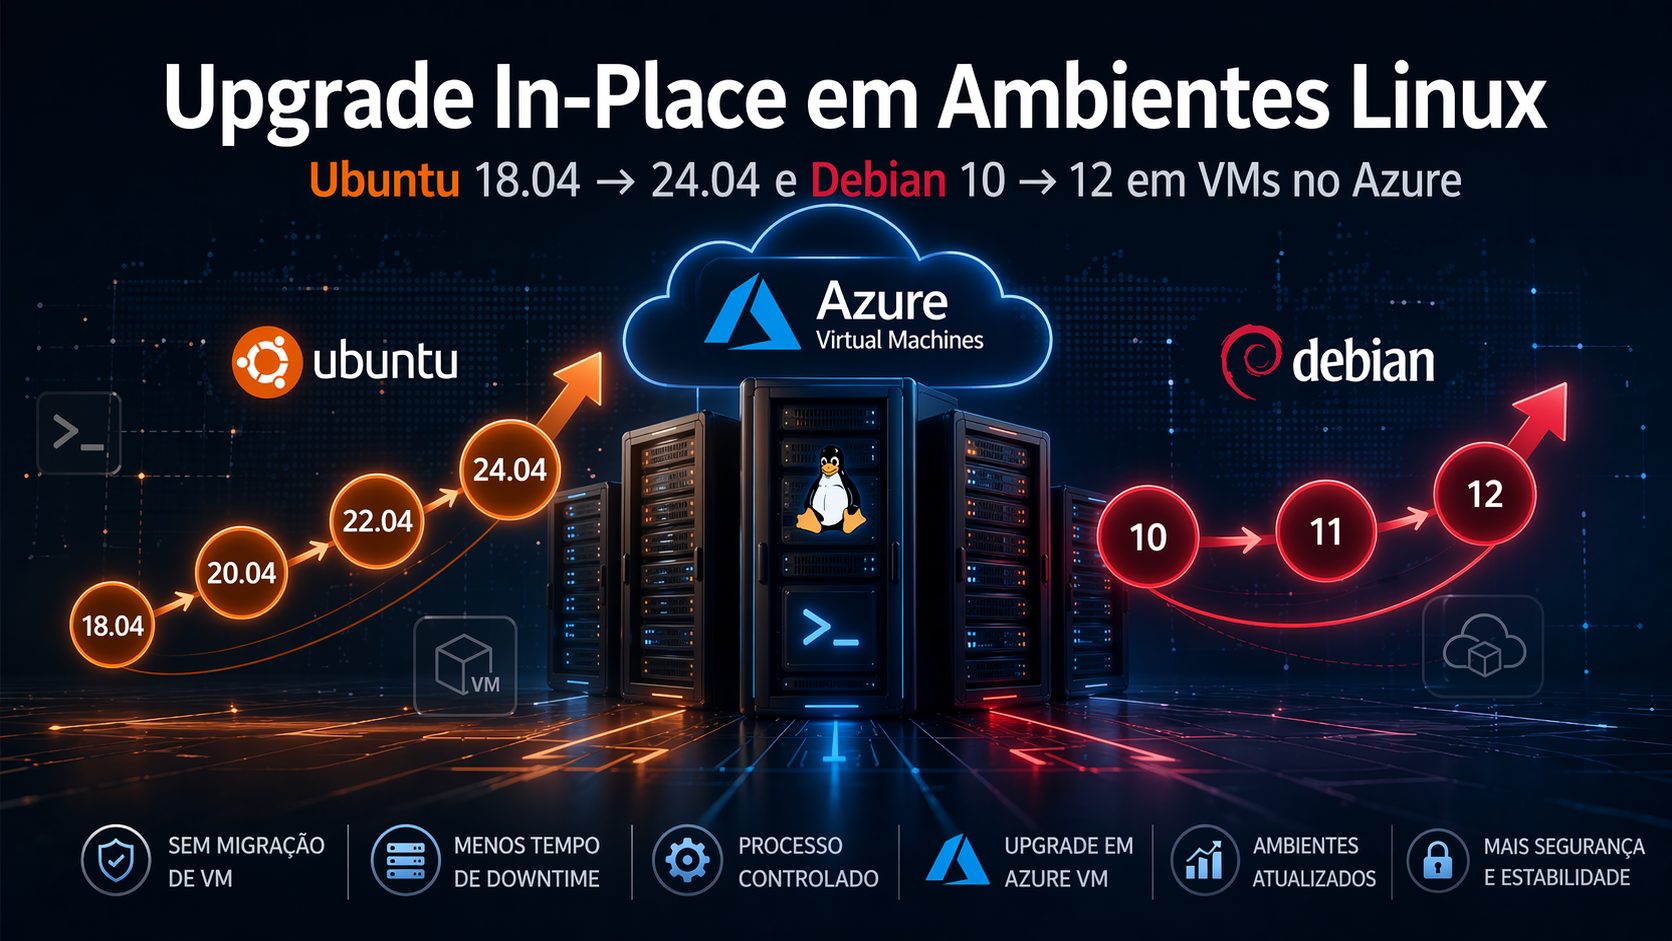
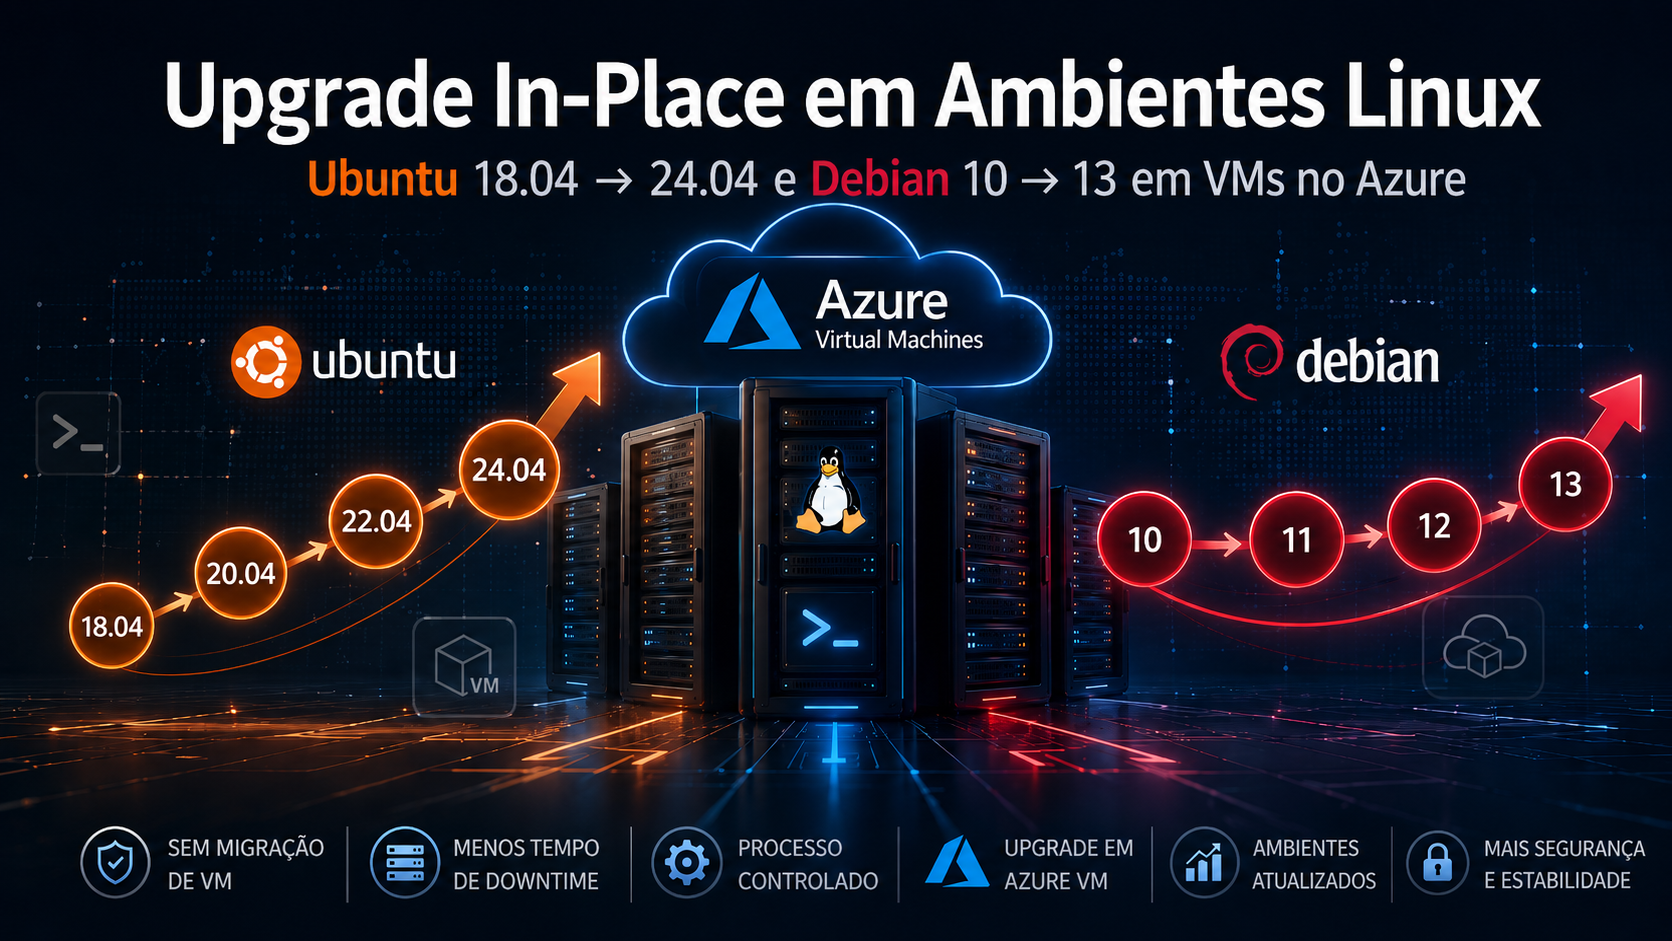
Artigo - Upgrade In-Place: Linux Ubuntu e Debian

diff --git a/_posts/2026/2026-04-24-upgrade-in-place-linux-azure-vm.md b/_posts/2026/2026-04-24-upgrade-in-place-linux-azure-vm.md
@@ -522,7 +522,7 @@ sudo apt update && apt upgrade && apt full-upgrade
 
 ---
 
-3 - E esse é o resultado final do upgrade realizado do Debian 11 para o Debian 12:
+3 - E esse é o resultado final do upgrade realizado do *Debian 11* para o **Debian 12**:
 
 ```bash
 cat /etc/debian_version
@@ -540,7 +540,62 @@ systemctl --failed
 
 ---
 
-4 - E por último não se esqueça de remover todos os resíduos deixados durante o upgrade:
+##### **Upgrading Linux (Debian 12) → Linux (Debian 13)**
+
+Aqui usaremos a mesma lógica que fizemos para o Debian 11, vamos simplesmente alterar o arquivo **sources.list** de *Bookworm* para **TRIXIE**
+
+1 - Com seu editor favorito (eu prefiro o nano) edite o arquivo `sources.list` através do caminho `/etc/apt/sources.list`:
+
+```bash
+sudo nano /etc/apt/sources.list
+```
+
+Apague todo o conteúdo neste arquivo, copie todo o conteúdo deste repositório abaixo e cole:
+
+```bash
+deb http://deb.debian.org/debian trixie main contrib non-free non-free-firmware
+deb http://security.debian.org/debian-security trixie-security main contrib non-free non-free-firmware
+deb http://deb.debian.org/debian trixie-updates main contrib non-free non-free-firmware
+```
+
+Para salvar basta pressionar as teclas **CTRL + X** em seguida digite a tecla **Y** e por final tecle **ENTER** para sair.
+
+![lnxclient-upgrade](assets/img/007/033-upgrade-in-place-linux-azure-vm.png){: .shadow .rounded-10 }
+<br>
+
+---
+
+2 - Com o arquivo devidamente alterado para buscar a atualização para a versão Debian 13, vamos executar novamente o comando abaixo:
+
+```bash
+sudo apt update && apt upgrade && apt full-upgrade
+```
+
+> Como de costume, nessa etapa não vou repetir os prints, pois serão exatamente iguais ao upgrade que fizemos do Debian 11 para o Debian 12
+{: .prompt-info }
+
+---
+
+3 - E esse é o resultado final do upgrade realizado do *Debian 12* para o **Debian 13**:
+
+```bash
+cat /etc/debian_version
+uname -r
+systemctl --failed
+```
+
+![lnxclient-upgrade](assets/img/007/034-upgrade-in-place-linux-azure-vm.png){: .shadow .rounded-10 }
+<br>
+
+---
+
+![lnxclient-upgrade](assets/img/007/035-upgrade-in-place-linux-azure-vm.png){: .shadow .rounded-10 }
+<br>
+
+---
+
+> E por último não se esqueça de remover todos os resíduos deixados durante o upgrade:
+{: .prompt-tip }
 
 ```bash
 sudo apt autoremove --purge -y && sudo apt clean
@@ -570,7 +625,7 @@ sudo apt autoremove --purge -y && sudo apt clean
 | Ubuntu 24.04 LTS release notes | <https://documentation.ubuntu.com/release-notes/24.04> |
 | Ubuntu release cycle | <https://ubuntu.com/about/release-cycle> |
 | Debian Releases | <https://www.debian.org/releases> |
-| Debian 12 release information | <https://www.debian.org/releases/bookworm> |
+| Debian 13 release information | <https://www.debian.org/releases/trixie/> |
 
 ---
 
@@ -588,7 +643,7 @@ No Ubuntu, o caminho que seguimos foi:
 
 E no Debian:
 
-- **10 → 11 → 12**
+- **10 → 11 → 12 → 13**
 
 ---
 
